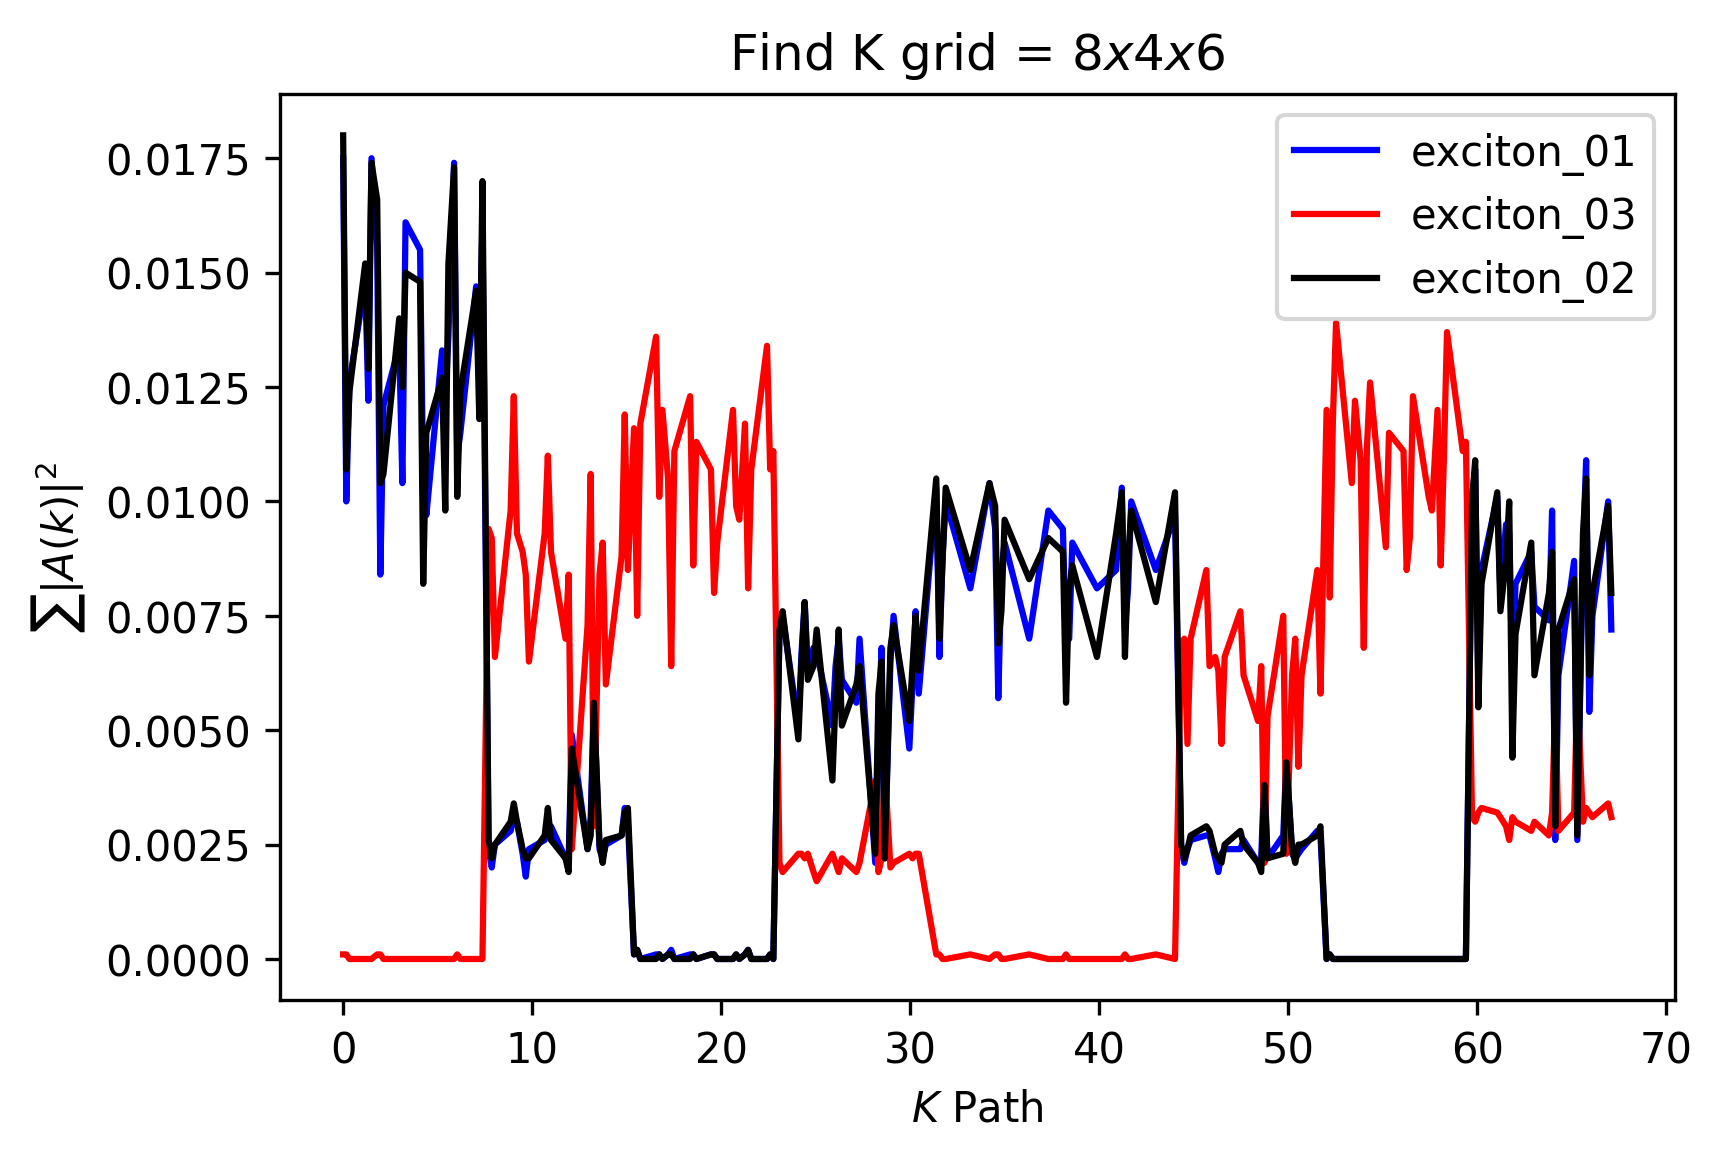
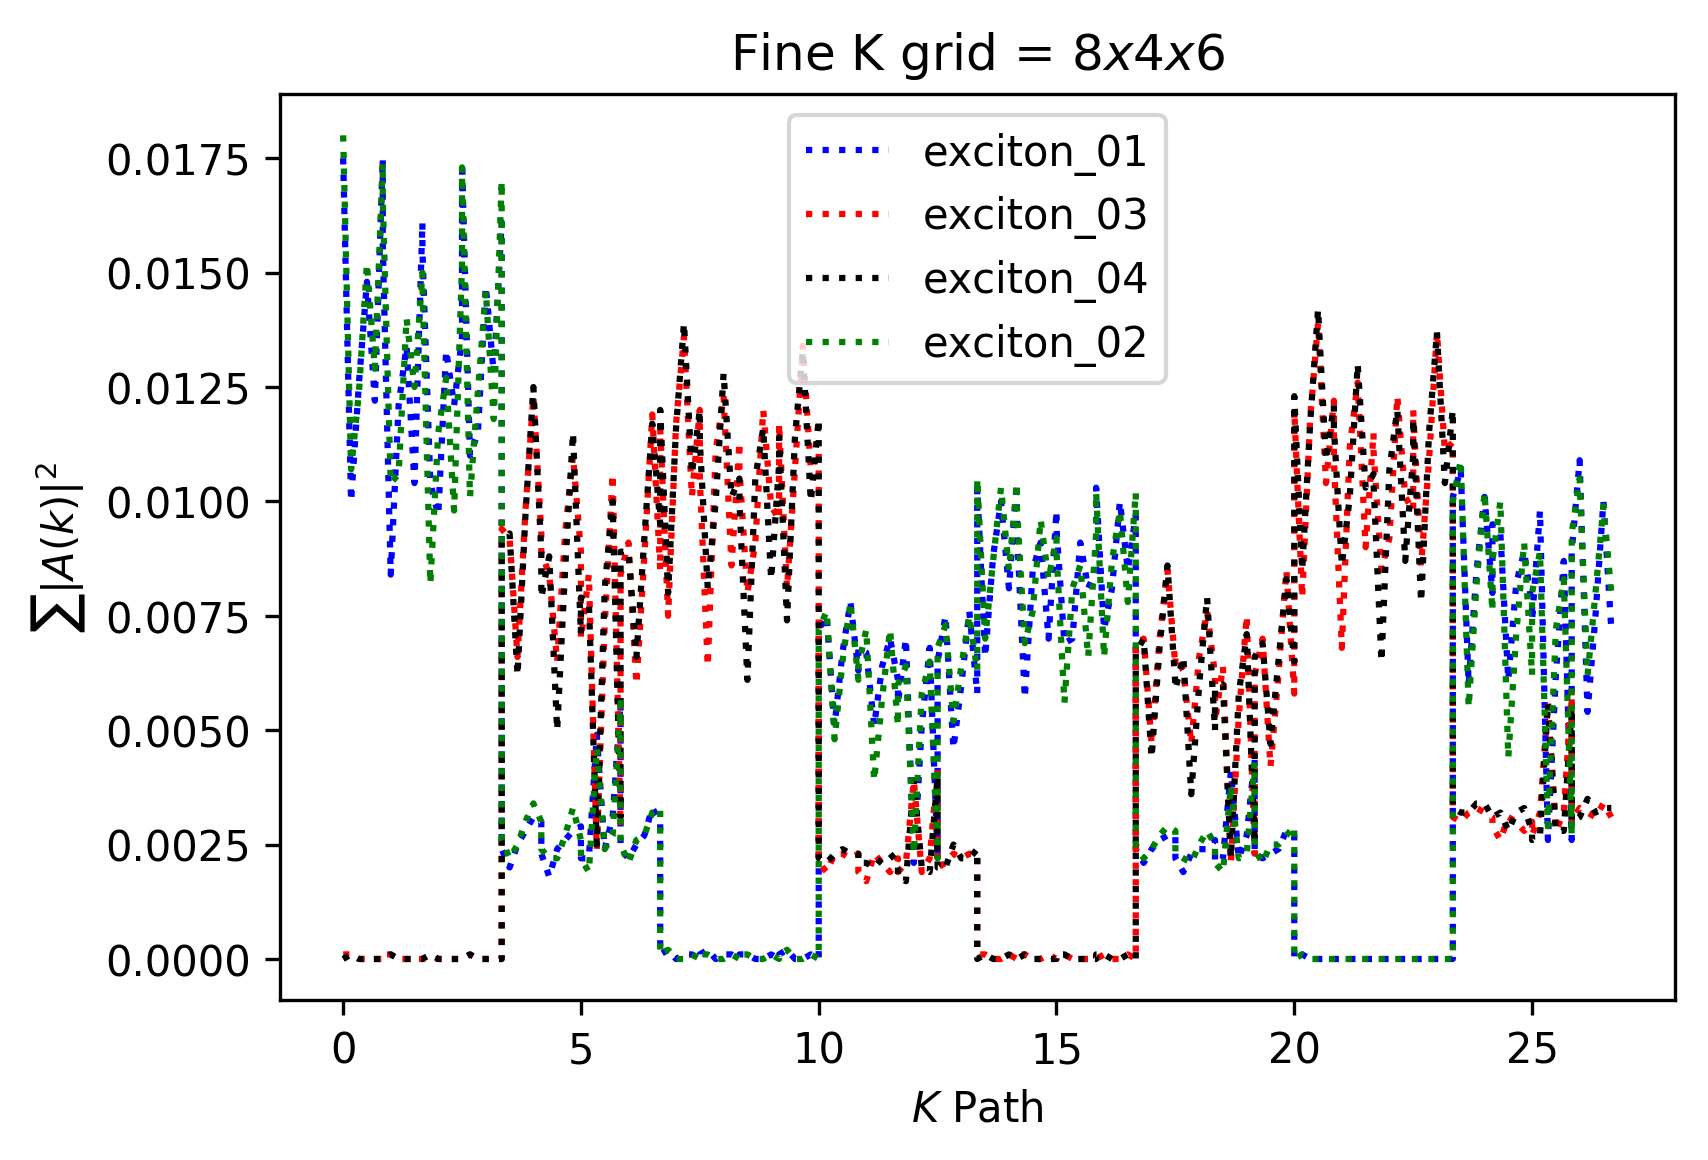
excitonWFNplot
did some change, insignificant

diff --git a/BSE/plotExcitonWFN.py b/BSE/plotExcitonWFN.py
@@ -3,7 +3,7 @@ import matplotlib.pyplot as plt
 import os
 import itertools
 
-path = "plot_exciton_wfn_data/1068"
+path = "plot_exciton_wfn_data/846"
 
 datalist = os.listdir(path)
 for val in datalist[:]:
@@ -17,12 +17,22 @@ def extractdata(filename):
     for i, val in enumerate(data):
         data[i] = val[:-2].split()
     data = np.array(data).astype(float)
+    for i, ival in enumerate(data):
+        for j, jval in enumerate(data[:3]):
+            if data[i][j] < 0:
+                data[i][j] += 1
     outdata = np.zeros((data.shape[0], 2))
     outdata[:, 1] = data[:, -1]
+    divideindex = []
     for i in range(1, len(data)):
-        distvec = data[i][:3] - data[i-1][:3]
-        outdata[i][0] = np.linalg.norm(distvec, 2) + outdata[i-1][0]
-    return outdata
+        dist = np.linalg.norm(data[i][:3] - data[i-1][:3], 2)
+        if dist > 0.5:
+            outdata[i][0] = outdata[i-1][0]
+            divideindex.append(i)
+        else:
+            outdata[i][0] = dist + outdata[i-1][0]
+    print(divideindex)
+    return (outdata, divideindex)
 
 plotdata = dict()
 for name in datalist:
@@ -36,9 +46,12 @@ namelist = list()
 
 for key, val in plotdata.items():
     namelist.append(key)
-    plotlist.append(plt.plot(val[:, 0], val[:, 1], color = next(colorlist))[0])
+    plotlist.append(plt.plot(val[0][:, 0], val[0][:, 1], linestyle=':', color = next(colorlist), linewidth=1.5)[0])
+#    for index in val[1]:
+#        plt.vlines(val[0][index], 0, 1, colors='k', linestyles='solid')
 plt.legend((plotlist), (namelist))
+#plt.axis([-1, 27, 0.0, 0.02])
 plt.xlabel("$K$ Path")
 plt.ylabel('$\sum |A(k)|^2$')
-plt.title('Find K grid = $10 x 6 x 8$')
-fig.savefig('1068.png', bbox_inches='tight', dpi=300)
+plt.title('Fine K grid = $8 x 4 x 6$')
+fig.savefig('846.png', bbox_inches='tight', dpi=300)
